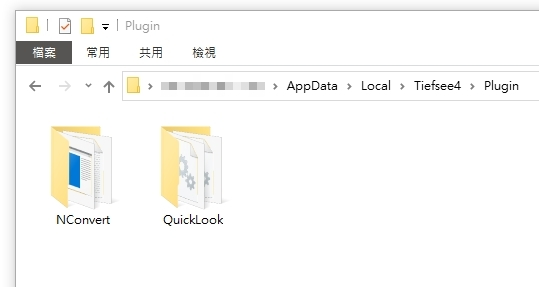
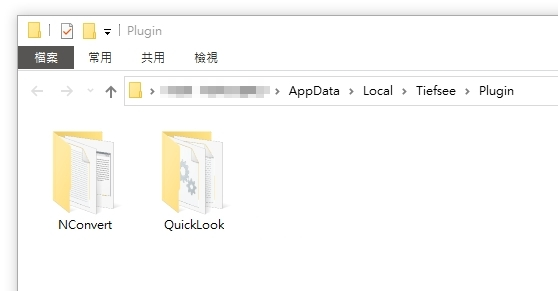
[update] app資料夾名稱從「Tiefsee4」改成「Tiefsee」

diff --git a/Tiefsee/Tiefsee/bin/output/www/ts/d/NetAPI.d.ts b/Tiefsee/Tiefsee/bin/output/www/ts/d/NetAPI.d.ts
@@ -90,7 +90,7 @@ interface WV_Window {
     /** 設定視窗坐標 */
     SetPosition(left: number, top: number): void;
 
-    /** 取得程式的暫存資料夾，例如 C:\Users\user\AppData\Local\Tiefsee4 */
+    /** 取得程式的暫存資料夾，例如 C:\Users\user\AppData\Local\Tiefsee */
     GetAppDataPath(): string;
 
     /** 取得執行檔目錄 */

diff --git a/Tiefsee/Tiefsee/Program.cs b/Tiefsee/Tiefsee/Program.cs
@@ -18,7 +18,7 @@ namespace Tiefsee {
 
         /// <summary> 透過UserAgent來驗證是否有權限請求localhost server API </summary>
         public static string webvviewUserAgent = "Tiefsee";
-      
+
         /// <summary> webview2的啟動參數 </summary>
         public static string webvviewArguments;
 
@@ -31,7 +31,16 @@ namespace Tiefsee {
             //修改 工作目錄 為程式資料夾 (如果有傳入args的話，工作目錄會被修改，所以需要改回來
             Directory.SetCurrentDirectory(System.AppDomain.CurrentDomain.BaseDirectory);
 
-            appDataPath = Path.Combine(Environment.GetFolderPath(Environment.SpecialFolder.LocalApplicationData), "Tiefsee4");
+            appDataPath = Path.Combine(Environment.GetFolderPath(Environment.SpecialFolder.LocalApplicationData), "Tiefsee");
+
+            //把Tiefsee4資料夾轉移成Tiefsee
+            string appDataPath_old = Path.Combine(Environment.GetFolderPath(Environment.SpecialFolder.LocalApplicationData), "Tiefsee4");
+            if (Directory.Exists(appDataPath) == false && Directory.Exists(appDataPath_old) == true) {
+                try {
+                    Directory.Move(appDataPath_old, appDataPath);
+                } catch (Exception) { }
+            }
+
             if (Directory.Exists(appDataPath) == false) {//如果資料夾不存在，就新建
                 Directory.CreateDirectory(appDataPath);
             }

diff --git a/Tiefsee/Tiefsee/VW/WV_Window.cs b/Tiefsee/Tiefsee/VW/WV_Window.cs
@@ -214,7 +214,7 @@ namespace Tiefsee {
 
 
         /// <summary>
-        /// 取得程式的暫存資料夾，例如 C:\Users\user\AppData\Local\Tiefsee4
+        /// 取得程式的暫存資料夾，例如 C:\Users\user\AppData\Local\Tiefsee
         /// </summary>
         /// <returns></returns>
         public string GetAppDataPath() {
